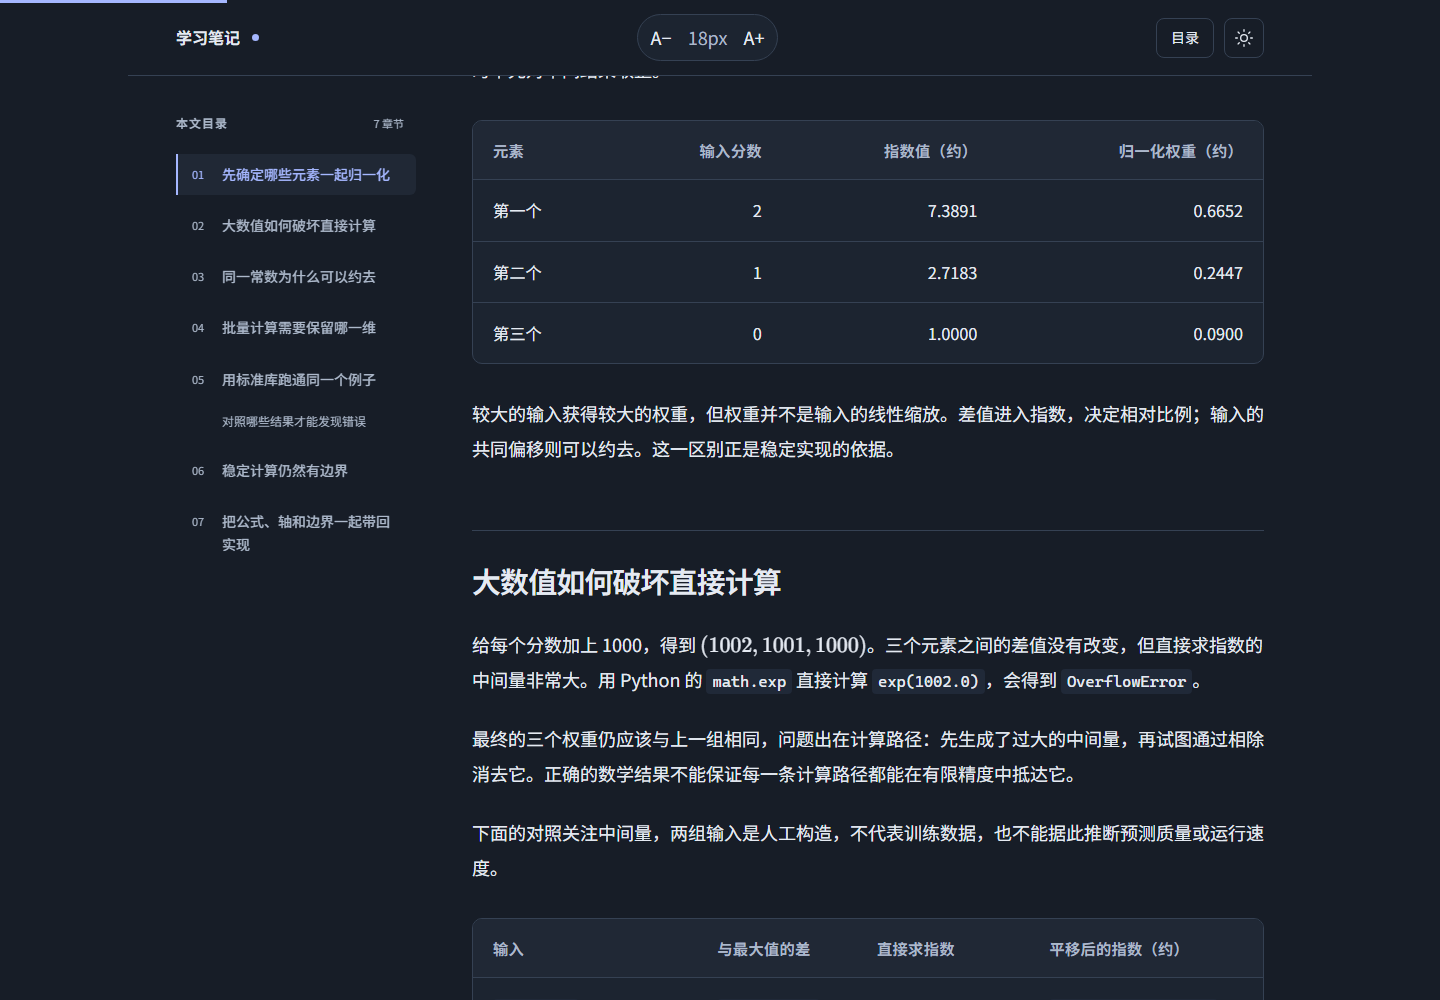
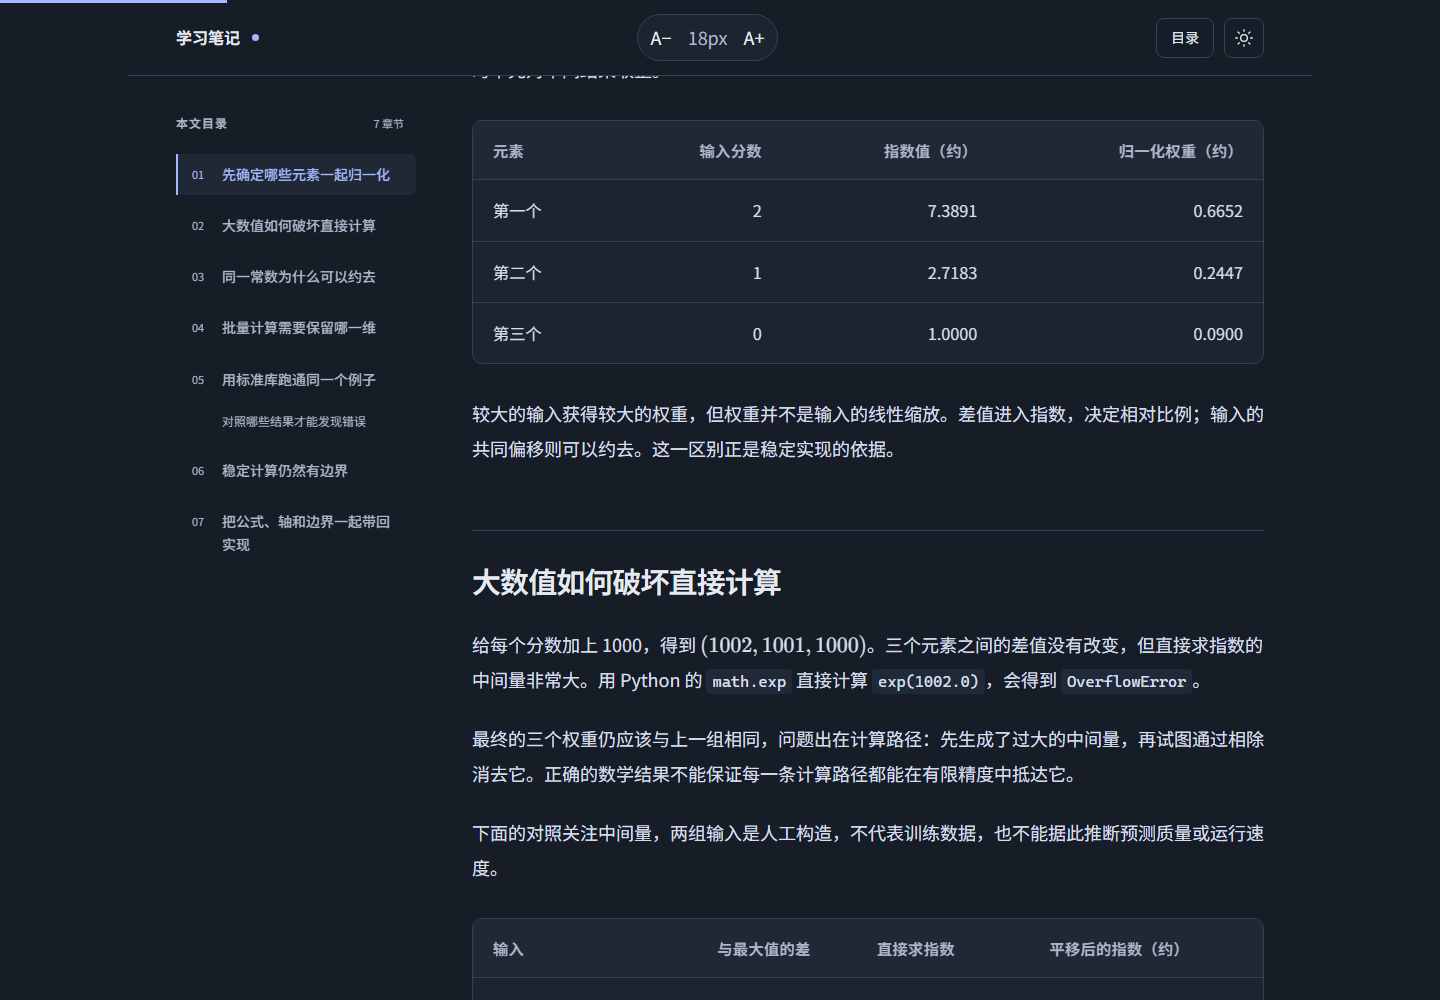
Soften dark long-form text while preserving heading hierarchy

diff --git a/assets/content/content.css b/assets/content/content.css
@@ -5,6 +5,7 @@
   --compare-soft: #FFF7ED; --secondary: #0891B2; --secondary-soft: #ECFEFF;
   --node-bg: #EAE7DE; --node-line: #C8C5BB;
   --reading-size: 18px;
+  --reading-text: var(--text);
   --code-bg: #EDECE6; --figure-bg: #F0EEE7;
   --paper: #FCFAF5; --code-string: #32654C; --code-number: #965216;
   font-family: "Content Sans", "Noto Sans SC", "Microsoft YaHei", "PingFang SC", system-ui, sans-serif;
@@ -17,6 +18,7 @@
   --line: #354153; --accent: #A5B7FF; --accent-soft: #29334D; --compare: #F0BC79;
   --compare-soft: #3B2E22; --secondary: #76D5E8; --secondary-soft: #18343D;
   --node-bg: #2A323E; --node-line: #536072;
+  --reading-text: #D6DEEA;
   --code-bg: #202938; --figure-bg: #202835;
   --paper: #1C2430; --code-string: #A7D5B5; --code-number: #EDC18D;
 }
@@ -61,14 +63,14 @@ a { color: var(--accent); text-underline-offset: 4px; }
 .eyebrow { margin: 0 0 22px; color: var(--accent); font-size: 13px; font-weight: 650; letter-spacing: .08em; }
 h1 { font-size: clamp(34px, 3.2vw, 48px); line-height: 1.3; letter-spacing: -.025em; font-weight: 650; margin: 0 0 24px; }
 h1, .prose h2, .prose h3 { text-wrap: pretty; overflow-wrap: anywhere; }
-.prose { overflow-wrap: break-word; font-size: var(--reading-size); line-height: 1.95; }
+.prose { overflow-wrap: break-word; font-size: var(--reading-size); line-height: 1.95; color: var(--reading-text); }
 .description { color: var(--muted); font-size: 20px; line-height: 1.85; margin: 0; max-width: 38em; }
 .article-meta { font-size: 13px; color: var(--muted); margin: 22px 0 0; }
 .article-meta:empty { display: none; }
 .prose h2 { font-size: 1.6em; line-height: 1.5; letter-spacing: -.025em; margin: 64px 0 24px; padding-top: 28px; border-top: 1px solid var(--line); }
 .prose h2:first-child { margin-top: 0; padding-top: 0; border-top: 0; }
 .prose h3 { font-size: 1.2em; line-height: 1.55; margin: 40px 0 18px; }
-.prose h2, .prose h3 { font-weight: 600; }
+.prose h2, .prose h3 { font-weight: 600; color: var(--text); }
 .prose p { margin: 0 0 24px; }
 .prose > p:first-child { font-size: 1.08em; line-height: 1.9; }
 .prose li { padding-left: 4px; margin-bottom: 8px; }

diff --git a/scripts/visual_qa.py b/scripts/visual_qa.py
@@ -39,6 +39,8 @@ def inspect_palette(page):
         return rgb[0] * .2126 + rgb[1] * .7152 + rgb[2] * .0722;
       };
       return [['--text','--bg'],['--muted','--bg'],['--accent','--bg'],
+              ['--reading-text','--bg'],['--reading-text','--paper'],
+              ['--reading-text','--surface'],['--reading-text','--code-bg'],
               ['--text','--figure-bg'],['--muted','--figure-bg'],['--text','--code-bg']].map(([fg,bg]) => {
         const a = luminance(fg), b = luminance(bg);
         const ratio = (Math.max(a,b) + .05) / (Math.min(a,b) + .05);

diff --git a/references/template-design.md b/references/template-design.md
@@ -28,4 +28,6 @@
 
 宽表格保持局部滚动的处理参考[W3C Reflow说明](https://www.w3.org/WAI/WCAG22/Understanding/reflow.html)，聚焦、区域命名与键盘滚动参考[MDN overflow](https://developer.mozilla.org/en-US/docs/Web/CSS/Reference/Properties/overflow#accessibility)。本项目按真实溢出添加方向提示，不将这些局部检查称为完整无障碍认证。
 
+文字颜色按语义角色区分的思路参考[Carbon颜色tokens](https://www.carbondesignsystem.com/building-blocks/foundations/color/tokens)。本项目的深色长文正文亮度依据真实长文对照微调，标题和图内标签保留原文字色；不照搬Carbon的具体值，也不通过随意减小字重制造层级。
+
 代码的文件名、重点行与复制操作参考[Nextra代码功能](https://nextra.site/docs/guide/syntax-highlighting)，长行可选换行借鉴[Elementor Code Highlight的Word Wrap](https://elementor.com/help/code-highlight-pro/)行为。只在出现水平溢出时提供换行入口，以控制工具栏密度；不引入相关框架或插件。
